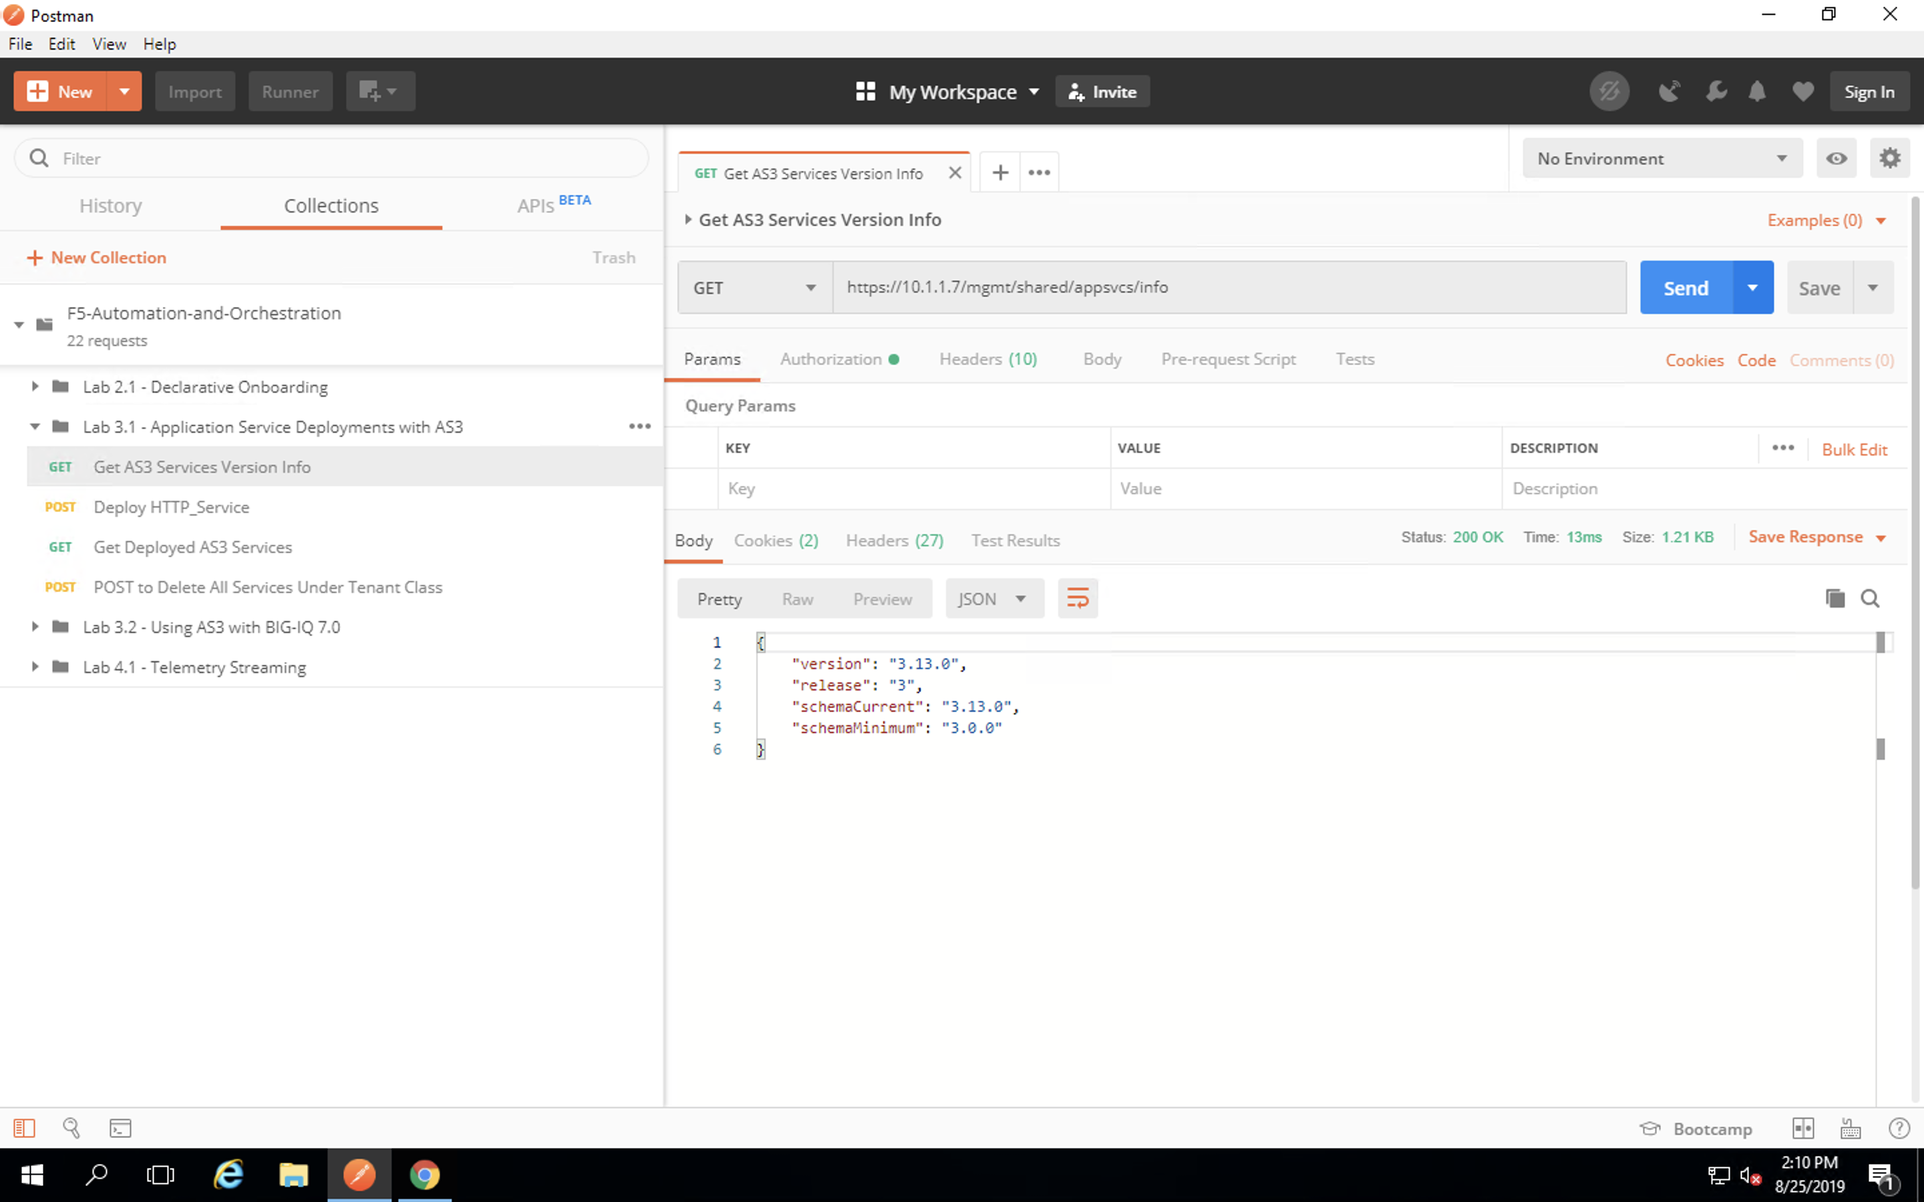
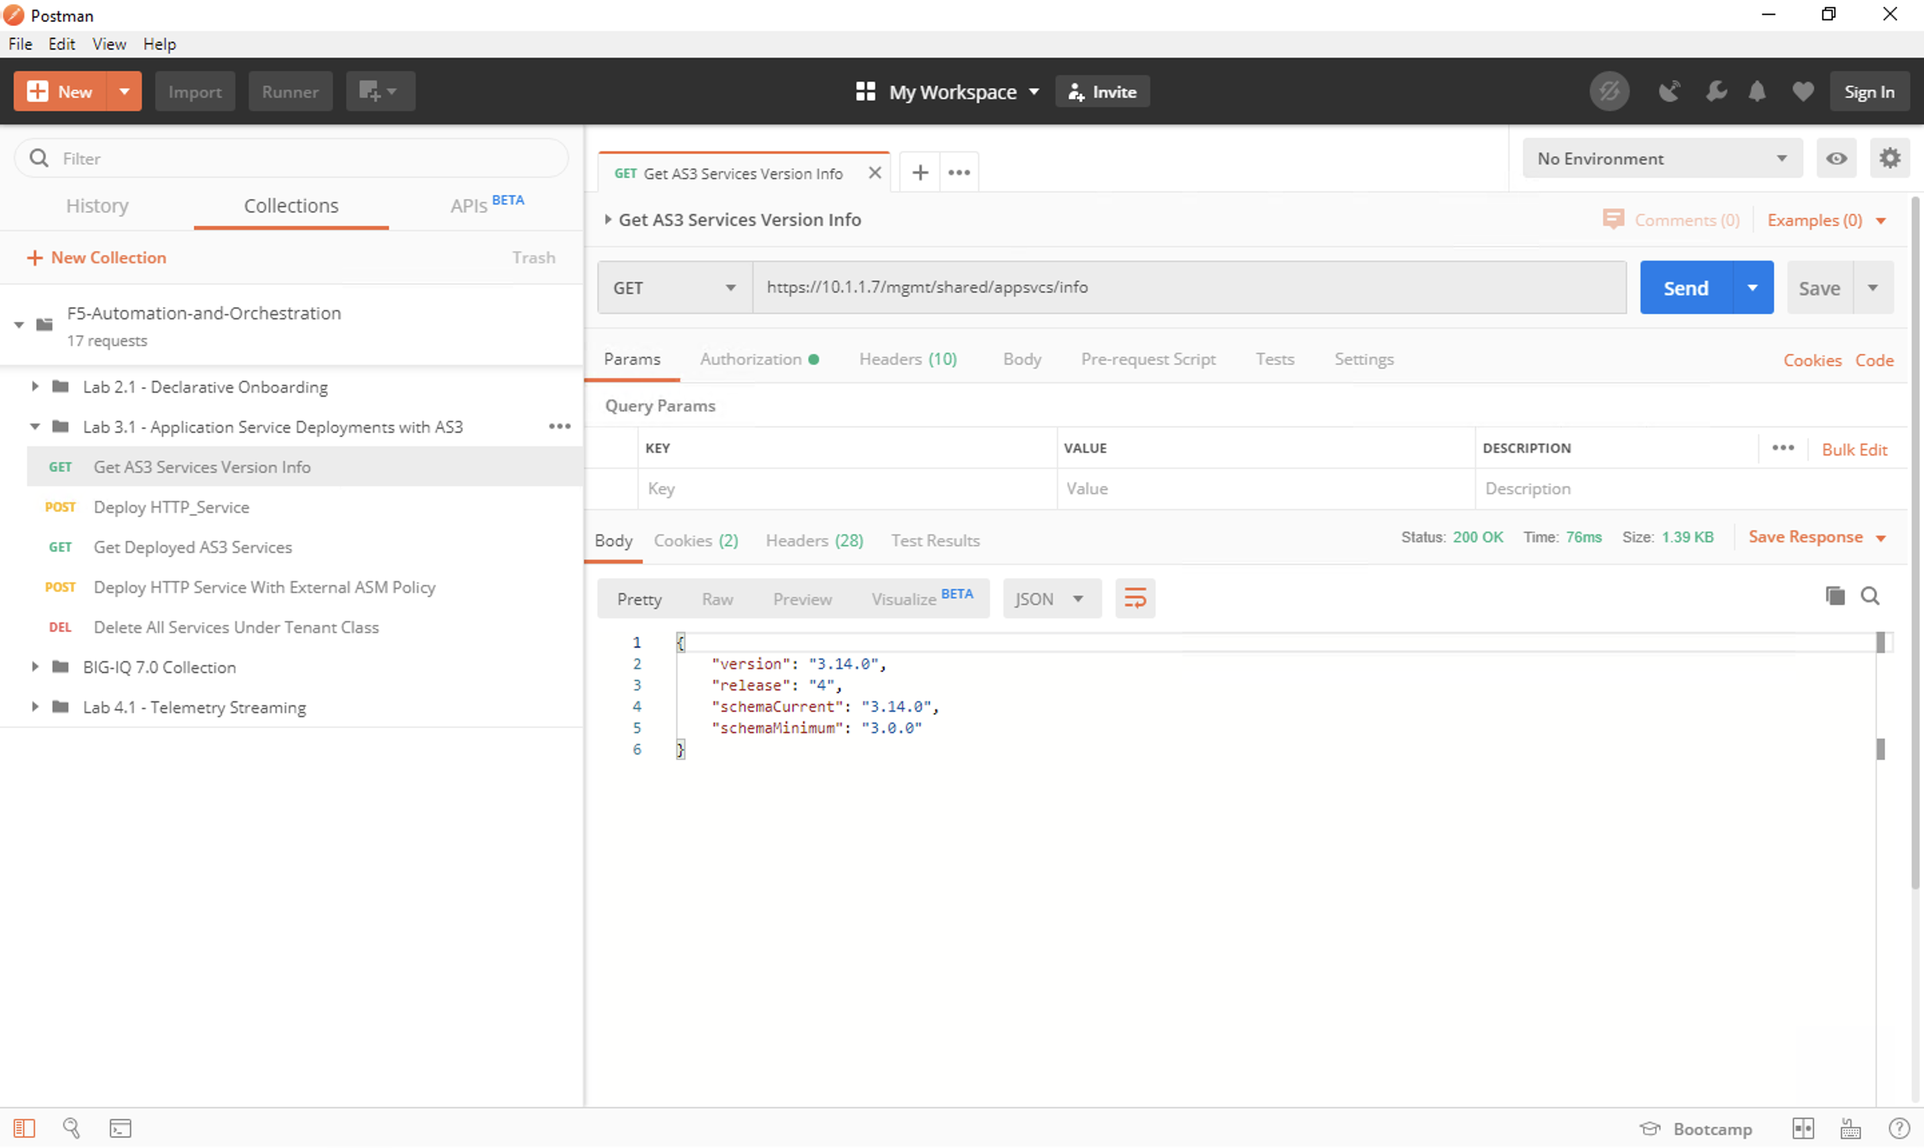
added asm

diff --git a/docs/_build/html/searchindex.js b/docs/_build/html/searchindex.js
@@ -1,1 +1,1 @@
-Search.setIndex({docnames:["class2/class2","class3/class3","class3/module/do","class4/class4","class4/module/lab1","class4/module/module","class4/module2/lab2","class4/module2/module2","class5/class5","class5/module/telemetry","index"],envversion:52,filenames:["class2/class2.rst","class3/class3.rst","class3/module/do.rst","class4/class4.rst","class4/module/lab1.rst","class4/module/module.rst","class4/module2/lab2.rst","class4/module2/module2.rst","class5/class5.rst","class5/module/telemetry.rst","index.rst"],objects:{},objnames:{},objtypes:{},terms:{"class":[2,4],"default":2,"import":[],"new":[7,9],"return":[4,9],"true":2,"while":8,AWS:[0,8,10],DNS:[0,1,2,3,4,5,6,7,8,9,10],For:[2,6,8],IPs:[2,6],The:[0,1,2,3,4,5,6,7,8,9,10],Then:4,Use:[],Using:[3,10],With:[],aaaaa:2,abl:[],about:4,abov:6,access:[0,1,2,3,4,5,6,7,8,9,10],account:8,action:9,activ:6,add:9,address:[0,2,9],admin123:[0,6],admin:[0,2,4,6,9],administr:[0,9],adminstr:[2,4],advanc:[0,1,2,3,4,5,6,7,8,9,10],agnost:3,all:[0,2,4,9],allowservic:2,along:9,alreadi:[2,4],also:[4,9],amount:8,ani:9,anoth:3,api:[0,1,2,3,4,5,6,7,8,9,10],apirefer:6,app:[0,1,3,5,7,8,9,10],app_made_by_as3_templ:[],applic:[0,1,2,4,5,7,8,9,10],applicationi:[],applicaton:[],approv:0,as3:[0,4,10],aspect:10,assum:[1,3,8],assumpt:[1,3,8],async:2,attach:9,auth:6,authent:6,authn:6,autom:[0,1,2,3,4,5,6,7,8,9,10],averag:8,aws:8,back:[2,6,9],bar:[2,4,6,9],bbbbb:2,been:[0,4,9],begin:9,below:[6,9],big:[0,1,3,5,8,10],bigiq_public_api_ref:6,blue:[6,9],blueprint:[2,4,9],bodi:6,bookmark:[6,9],bottom:[2,4,9],box:6,browser:[0,1,4,8,9],bug:[0,1,2,3,4,5,6,7,8,9,10],busi:8,button:[2,4,6,9],call:0,can:[0,1,2,3,4,5,6,7,8,9,10],ccccc:2,certif:[2,4,9],chang:[],check:[4,6],chrome:[0,2,4,6,9],claim:6,class7:[1,3,8],click:[1,2,4,6,8,9],client:9,close:[6,9],cloud:8,clouddoc:[1,2,3,6,8],cloudwatch:[8,10],code:2,collect:[2,4,6,8,9],com:[0,1,2,3,4,5,6,7,8,9,10],combin:9,common:[2,4,9],commun:[1,3,8],complet:[1,2,3,8],complianc:9,compon:[0,2,4,9],comput:2,configu:2,configur:[1,3,5,8,10],connect:8,consol:9,consum:8,contain:[0,1,2,3,4,5,6,7,8,9,10],content:[0,1,2,3,4,5,6,7,8,9,10],control:[0,1,2,3,4,5,6,7,8,9,10],copi:9,correspond:[],could:8,creat:[7,9],credenti:[0,2,4,9],current:[4,9],custom:6,dai:[8,9],dashboard:9,data:8,dcd:0,ddddd:2,declar:[0,5,6,8,10],delet:4,deliveri:[0,1,2,3,4,5,6,7,8,9,10],demo:[1,2,3,4,8,9],deploi:[5,6,8,10],deploy:[2,4,9],desktop:6,detail:[2,4,9],dev:1,devic:2,devop:[0,1,2,3,4,5,6,7,8,9,10],dismiss:9,document:8,don:2,done:2,download:9,dropdown:[2,4,8,9],durat:9,edit:[0,1,2,3,4,5,6,7,8,9,10],eeeeeee:2,email:1,empti:6,enabl:7,end:[2,4,6,9],enforc:[0,1,2,3,4,5,6,7,8,9,10],enhanc:[0,1,2,3,4,5,6,7,8,9,10],ensur:[2,4,6],enter:[2,4,6,8,9],entri:9,environ:10,error:[],everi:6,exclus:0,existing_pool:9,existing_v:9,exit:[2,4,9],expect:[1,3,8],expir:6,extend:8,extens:[2,10],extern:[0,2],external_default_gatewai:2,f5devcentr:[0,1,2,3,4,5,6,7,8,9,10],facilit:[1,3,8],fals:2,familiar:10,featur:[],feder:[1,8,9],few:[0,2],field:2,file:[2,4,9],find:[6,9],firewal:[0,1,2,3,4,5,6,7,8,9,10],fix:6,follow:[0,1,2,3,8],found:9,from:[0,1,2,3,4,5,6,7,8,9,10],full:[0,1,2,3,4,5,6,7,8,9,10],gener:[1,2,4,8,10],get:[1,3,4,8,9,10],github:[0,1,2,3,4,5,6,7,8,9,10],githubusercont:[],give:9,global:[0,1,2,3,4,5,6,7,8,9,10],goal:[1,3,8],going:[],goodbaklava123:[0,2],googl:0,govern:9,green:[2,4,9],grei:[2,4,9],group:[2,6,8,10],gui:[],guid:[1,3,8],handi:1,has:[2,4,6],have:[0,2,4,6,9],help:10,here:[0,1,2,3,4,5,6,7,8,9,10],highlight:9,host:8,hostnam:2,how:[1,3,5,7,8],html:[1,2,3,6,8],http:[0,1,2,3,4,5,6,7,8,9,10],http_servic:4,iam:[8,10],icontrol:[0,1,2,3,4,5,6,7,8,9,10],ident:9,inc:[0,1,2,3,4,5,6,7,8,9,10],includ:0,info:[2,4,9],inform:[4,8,9],insight:9,inspect:9,instal:[0,2],instanc:[4,9],integr:[1,3,8],intellig:[0,1,2,3,4,5,6,7,8,9,10],interact:0,interfac:2,intern:[0,2],invalid:6,isn:2,issu:[0,1,2,3,4,5,6,7,8,9,10],its:9,iworkflow:[0,1,2,3,4,5,6,7,8,9,10],jaustinf5:[],json:6,jumphost:0,jumppost:0,justif:8,keep:1,kei:[0,1,2,8,9],know:[1,3,4,8],lab1:[1,3,8],lab:[1,2,3,4,6,8,9],latest:2,learn:[5,7],left:[2,4,6,9],let:9,leverag:[0,1,2,3,4,5,6,7,8,9,10],licens:[1,2],licensetyp:2,link:[],linux:0,list:[2,9],load:[],local:[0,1,2,3,4,5,6,7,8,9,10],log:[2,8,10],login:[5,6,9],ltm:2,machin:0,made:[0,1,2,3,4,5,6,7,8,9,10],main:0,make:0,manag:[0,1,2,3,4,5,6,7,8,9,10],mani:8,manual:2,map:9,master:[],mean:6,menu:[2,4,6,9],method:8,mgmt:6,might:6,mine:[],minimum:[4,9],minut:[1,2,3,6,8],modul:[5,7,9],module1:[1,3,8],most:4,move:7,mtu:2,my_log_group:9,my_us:9,mydn:2,mylicens:2,myntp:2,myprovis:2,name:[2,6,9],nameserv:2,navig:[1,2,4,6,8,9],network:[0,1,2,3,4,5,6,7,8,9,10],newli:6,next:[1,6,9],nomin:2,none:2,note:9,notic:6,now:[2,4,6,8,9],ntp:2,off:[2,4,9],onboard:[0,10],onc:[0,2,9],one:[2,3,4,9],onli:2,onto:2,open:[0,1,2,3,4,5,6,7,8,9,10],orchestr:[0,1,2,3,4,5,6,7,8,9,10],org:2,other:4,our:4,out:0,outsid:0,overwrit:2,page:[2,4,9],partit:[4,9],password:[6,9],past:9,patch:2,perform:0,permiss:9,pipelin:[0,1,2,3,4,5,6,7,8,9,10],platform:8,point:0,polici:[0,1,2,3,4,5,6,7,8,9,10],pool:[0,2,9],pop:[2,4,6,9],port:9,post:[2,4,9],postman:[0,1,3,5,6,8,10],postman_collect:[],pre:[],preconfigur:9,prefer:0,prerequisit:[1,8],present:[2,4,9],previous:9,process:2,produc:9,product:[2,6],programmat:9,properti:[],provid:10,provis:2,publish:6,purpos:10,queri:9,quickli:10,r_as3_templ:6,raw:[],rbac:7,rdp:[2,4,9],receiv:6,recent:4,regist:6,regkei:2,releas:[4,9],relev:8,reload:9,repositori:[0,1,2,3,4,5,6,7,8,9,10],request:[0,1,2,3,4,5,6,7,8,9,10],requir:[0,4,9],resend:6,respons:[2,4,6],rest:[0,1,2,3,4,5,6,7,8,9,10],result:9,retriev:9,review:9,revok:2,right:[6,9],role:6,rout:2,rpm:2,run:9,save:6,schema:[4,9],schemavers:2,screen:[2,4,9],search:[2,4,8,9],secret:[8,9],section:[1,3,6,8,9],secur:[0,1,2,3,4,5,6,7,8,9,10],see:[2,6,9],seen:6,select:[2,4,6,8,9],self:2,selfip:2,send:[1,5,6,8,10],sent:9,server:[0,2,9],servic:[4,7,8,9,10],service_http:[],session:9,set:[1,2,4,9],setup:[0,8,10],share:6,should:[2,4],show:[4,9],sign:[2,4,9],similar:[],simplifi:3,skip:[2,4,9],soap:[0,1,2,3,4,5,6,7,8,9,10],some:10,sourc:[0,1,2,3,4,5,6,7,8,9,10],ssl:[2,4,9],start:[1,3,4,8,10],statu:2,sticki:9,store:[],straight:[2,4,9],stream:[0,9,10],submit:8,sure:[],system:[0,2,4,9],tab:[2,4,6,9],tag:[2,9],take:[2,4,8,9],target:6,technolog:8,telemetri:[0,9,10],templat:7,tenant:[2,4],test:0,test_log_group:[],test_log_stream:9,text:[2,4,9],than:4,them:9,thi:[0,1,2,3,4,5,6,7,8,9,10],thing:[0,2],through:0,ticket:8,tile:[1,2,4,6,8,9],time:[1,3,8,9],timezon:2,titl:6,toggl:[2,4,9],token:6,tool:1,toolchain:[2,4,9,10],top:[6,9],topolog:10,traffic:[0,1,2,3,4,5,6,7,8,10],trafficgroup:2,train:[1,3,8],turn:[],tutori:[1,3,8],type:9,udf:[5,8,10],under:[2,4,6,9],unknown:6,until:[2,4,9],upgrad:3,upload:7,uri:6,use:[1,2,3,5,7,8],user:[6,8,10],usernam:[6,9],uses:8,using:[0,1,2,3,4,5,6,7,8,9,10],utc:2,util:2,v13:0,v14:0,valid:2,valu:[],verif:[2,4,9],verifi:4,verificatt:[],version:[2,3,4,9],via:7,view:[7,8,10],vip:[],virtual:[0,1,2,3,4,5,6,7,8,9,10],vlan:[0,2],waf:[1,3,8],wai:0,wait:[2,4,9],want:8,welcom:10,west:2,when:[1,2,6],which:0,win2016:[2,4,9],window:[0,6,9],within:[0,1,2,3,4,5,6,7,8,9,10],without:7,work:0,ylwbzexewl9at:[0,2,4],you:[0,1,2,3,4,5,6,7,8,9,10],your:[0,1,6,8,9]},titles:["1. Environments &amp; Lab Topology","2. Declarative Onboarding","2.1. Declarative Onboarding \u2013 Getting Started","3. Application Services 3 Extension (AS3)","3.1.1. Deploy UDF","3.1. AS3 \u2013 Getting Started","3.2.1. Using AS3 with BIG-IQ 7.0","3.2. Using AS3 with Big-IQ","4. Telemetry Streaming","4.1. Setup AWS CloudWatch IAM User","F5 Agility Labs - Index"],titleterms:{"import":[],"new":6,AWS:9,Using:[6,7],agil:10,app:[2,4,6],applic:[3,6],as3:[3,5,6,7],big:[2,4,6,7,9],chang:2,cloudwatch:9,collect:[],configur:[2,4,9],creat:6,declar:[1,2,4,9],deploi:[2,4,9],enabl:6,environ:0,extens:3,from:[],gener:9,get:[2,5],github:[],group:9,iam:9,index:10,lab:[0,10],log:9,login:[2,4],move:6,onboard:[1,2],postman:[2,4,9],rbac:6,send:[2,4,9],servic:[3,6],setup:9,start:[2,5,9],stream:8,telemetri:8,templat:6,topolog:0,traffic:9,udf:[2,4,9],upload:6,user:9,verifi:2,via:6,view:[6,9],without:6}})
+Search.setIndex({docnames:["class2/class2","class3/class3","class3/module/do","class4/class4","class4/module/lab1","class4/module/module","class4/module2/lab2","class4/module2/module2","class5/class5","class5/module/telemetry","index"],envversion:52,filenames:["class2/class2.rst","class3/class3.rst","class3/module/do.rst","class4/class4.rst","class4/module/lab1.rst","class4/module/module.rst","class4/module2/lab2.rst","class4/module2/module2.rst","class5/class5.rst","class5/module/telemetry.rst","index.rst"],objects:{},objnames:{},objtypes:{},terms:{"class":[2,4],"default":2,"import":[],"new":[7,9],"return":[4,9],"true":2,"while":8,AWS:[0,8,10],DNS:[0,1,2,3,4,5,6,7,8,9,10],For:[2,4,6,8],IPs:[2,6],The:[0,1,2,3,4,5,6,7,8,9,10],Then:4,Use:[],Using:[3,10],With:4,_static:[],aaaaa:2,abl:[],about:4,abov:6,access:[0,1,2,3,4,5,6,7,8,9,10],account:8,action:9,activ:6,add:9,address:[0,2,9],admin123:[0,6],admin:[0,2,4,6,9],administr:[0,9],adminstr:[2,4],advanc:[0,1,2,3,4,5,6,7,8,9,10],agnost:3,all:[0,2,4,9],allowservic:2,along:9,alreadi:[2,4],also:[4,9],amount:8,ani:9,anoth:3,api:[0,1,2,3,4,5,6,7,8,9,10],apirefer:6,app:[0,1,3,5,7,8,9,10],app_made_by_as3_templ:[],applic:[0,1,2,4,5,7,8,9,10],applicationi:[],applicaton:[],approv:0,appsvc:4,as3:[0,4,10],asm:4,asmlist:[],aspect:10,assum:[1,3,8],assumpt:[1,3,8],async:2,attach:9,auth:6,authent:6,authn:6,autom:[0,1,2,3,4,5,6,7,8,9,10],averag:8,aws:8,back:[2,4,6,9],bar:[2,4,6,9],bbbbb:2,been:[0,4,9],begin:9,below:[6,9],big:[0,1,3,5,8,10],bigiq_public_api_ref:6,blue:[6,9],blueprint:[2,4,9],bodi:6,bookmark:[6,9],bottom:[2,4,9],box:6,browser:[0,1,4,8,9],bug:[0,1,2,3,4,5,6,7,8,9,10],busi:8,button:[2,4,6,9],call:0,can:[0,1,2,3,4,5,6,7,8,9,10],ccccc:2,certif:[2,4,9],chang:[],check:[4,6],chrome:[0,2,4,6,9],claim:6,class7:[1,3,8],click:[1,2,4,6,8,9],client:9,close:[6,9],cloud:8,clouddoc:[1,2,3,4,6,8],cloudwatch:[8,10],code:2,collect:[2,4,6,8,9],com:[0,1,2,3,4,5,6,7,8,9,10],combin:9,common:[2,4,9],commun:[1,3,8],complet:[1,2,3,8],complianc:9,compon:[0,2,4,9],comput:2,configu:2,configur:[1,3,5,8,10],connect:8,consol:9,consum:8,contain:[0,1,2,3,4,5,6,7,8,9,10],content:[0,1,2,3,4,5,6,7,8,9,10],control:[0,1,2,3,4,5,6,7,8,9,10],copi:9,correct:4,correspond:[],could:8,creat:[7,9],credenti:[0,2,4,9],current:[4,9],custom:6,dai:[8,9],dashboard:9,data:8,dcd:0,ddddd:2,declar:[0,5,6,8,10],delet:4,deliveri:[0,1,2,3,4,5,6,7,8,9,10],demo:[1,2,3,4,8,9],deploi:[5,6,8,10],deploy:[2,4,9],desktop:6,detail:[2,4,9],dev:1,devic:2,devop:[0,1,2,3,4,5,6,7,8,9,10],dismiss:9,document:8,don:2,done:2,download:9,dropdown:[2,4,8,9],durat:9,edit:[0,1,2,3,4,5,6,7,8,9,10],eeeeeee:2,email:1,empti:6,enabl:[4,7],end:[2,4,6,9],enforc:[0,1,2,3,4,5,6,7,8,9,10],enhanc:[0,1,2,3,4,5,6,7,8,9,10],ensur:[2,4,6],enter:[2,4,6,8,9],entri:9,environ:10,error:[],everi:6,exclus:0,existing_pool:9,existing_v:9,exit:[2,4,9],expect:[1,3,8],expir:6,extend:8,extens:[2,4,10],extern:[0,2,4],external_default_gatewai:2,f5devcentr:[0,1,2,3,4,5,6,7,8,9,10],facilit:[1,3,8],fals:2,familiar:10,featur:[],feder:[1,8,9],few:[0,2],field:2,file:[2,4,9],find:[6,9],firewal:[0,1,2,3,4,5,6,7,8,9,10],fix:6,follow:[0,1,2,3,8],found:9,from:[0,1,2,3,4,5,6,7,8,9,10],full:[0,1,2,3,4,5,6,7,8,9,10],gener:[1,2,4,8,10],get:[1,3,4,8,9,10],github:[0,1,2,3,4,5,6,7,8,9,10],githubusercont:[],give:9,global:[0,1,2,3,4,5,6,7,8,9,10],goal:[1,3,8],going:4,goodbaklava123:[0,2],googl:0,govern:9,green:[2,4,9],grei:[2,4,9],group:[2,6,8,10],gui:[],guid:[1,3,8],handi:1,has:[2,4,6],have:[0,2,4,6,9],help:10,here:[0,1,2,3,4,5,6,7,8,9,10],highlight:9,host:8,hostnam:2,how:[1,3,5,7,8],html:[1,2,3,4,6,8],http:[0,1,2,3,4,5,6,7,8,9,10],http_servic:4,iam:[8,10],icontrol:[0,1,2,3,4,5,6,7,8,9,10],ident:9,imag:[],inc:[0,1,2,3,4,5,6,7,8,9,10],includ:0,info:[2,4,9],inform:[4,8,9],insight:9,inspect:9,instal:[0,2],instanc:[4,9],integr:[1,3,8],intellig:[0,1,2,3,4,5,6,7,8,9,10],interact:0,interfac:2,intern:[0,2],invalid:6,isn:2,issu:[0,1,2,3,4,5,6,7,8,9,10],its:9,iworkflow:[0,1,2,3,4,5,6,7,8,9,10],jaustinf5:[],json:6,jumphost:0,jumppost:0,justif:8,keep:1,kei:[0,1,2,8,9],know:[1,3,4,8],lab1:[1,3,8],lab:[1,2,3,4,6,8,9],lastli:4,latest:[2,4],learn:[5,7],left:[2,4,6,9],let:9,leverag:[0,1,2,3,4,5,6,7,8,9,10],licens:[1,2],licensetyp:2,link:[],linux:0,list:[2,9],load:[],local:[0,1,2,3,4,5,6,7,8,9,10],log:[2,8,10],login:[5,6,9],ltm:2,machin:0,made:[0,1,2,3,4,5,6,7,8,9,10],main:0,make:0,manag:[0,1,2,3,4,5,6,7,8,9,10],mani:8,manual:2,map:9,master:[],mean:6,menu:[2,4,6,9],method:[4,8],mgmt:6,might:6,mine:[],minimum:[4,9],minut:[1,2,3,6,8],modul:[5,7,9],module1:[1,3,8],more:4,most:4,move:7,mtu:2,my_log_group:9,my_us:9,mydn:2,mylicens:2,myntp:2,myprovis:2,name:[2,6,9],nameserv:2,navig:[1,2,4,6,8,9],network:[0,1,2,3,4,5,6,7,8,9,10],newli:6,next:[1,6,9],nomin:2,none:2,note:9,notic:6,now:[2,4,6,8,9],ntp:2,off:[2,4,9],onboard:[0,10],onc:[0,2,9],one:[2,3,4,9],onli:2,onto:2,open:[0,1,2,3,4,5,6,7,8,9,10],orchestr:[0,1,2,3,4,5,6,7,8,9,10],org:2,other:4,our:4,out:0,outsid:0,overwrit:2,page:[2,4,9],partit:[4,9],password:[6,9],past:9,patch:2,perform:0,permiss:9,pipelin:[0,1,2,3,4,5,6,7,8,9,10],platform:8,png:[],point:0,polici:[0,1,2,3,4,5,6,7,8,9,10],pool:[0,2,9],pop:[2,4,6,9],port:9,post:[2,9],postman:[0,1,3,5,6,8,10],postman_collect:[],pre:[],preconfigur:9,prefer:0,prerequisit:[1,8],present:[2,4,9],previous:9,process:2,produc:9,product:[2,4,6],programmat:9,properti:[],provid:10,provis:2,publish:6,purpos:10,queri:9,quickli:10,r_as3_templ:6,raw:[],rbac:7,rdp:[2,4,9],receiv:6,recent:4,refguid:4,regist:6,regkei:2,releas:[4,9],relev:8,reload:9,repositori:[0,1,2,3,4,5,6,7,8,9,10],request:[0,1,2,3,4,5,6,7,8,9,10],requir:[0,4,9],resend:6,respons:[2,4,6],rest:[0,1,2,3,4,5,6,7,8,9,10],result:9,retriev:9,review:9,revok:2,right:[6,9],role:6,rout:2,rpm:2,run:9,save:6,schema:[4,9],schemavers:2,screen:[2,4,9],search:[2,4,8,9],secret:[8,9],section:[1,3,6,8,9],secur:[0,1,2,3,4,5,6,7,8,9,10],see:[2,6,9],seen:6,select:[2,4,6,8,9],self:2,selfip:2,send:[1,5,6,8,10],sent:9,server:[0,2,9],servic:[4,7,8,9,10],service_http:[],session:9,set:[1,2,4,9],setup:[0,8,10],share:6,should:[2,4],show:[4,9],sign:[2,4,9],similar:[],simplifi:3,skip:[2,4,9],soap:[0,1,2,3,4,5,6,7,8,9,10],some:10,sourc:[0,1,2,3,4,5,6,7,8,9,10],ssl:[2,4,9],start:[1,3,4,8,10],statu:2,sticki:9,store:[],straight:[2,4,9],stream:[0,9,10],submit:8,sure:[],system:[0,2,4,9],tab:[2,4,6,9],tag:[2,9],take:[2,4,8,9],target:6,technolog:8,telemetri:[0,9,10],templat:7,tenant:[2,4],test:0,test_log_group:[],test_log_stream:9,text:[2,4,9],than:4,them:9,thi:[0,1,2,3,4,5,6,7,8,9,10],thing:[0,2],through:0,ticket:8,tile:[1,2,4,6,8,9],time:[1,3,8,9],timezon:2,titl:6,toggl:[2,4,9],token:6,tool:1,toolchain:[2,4,9,10],top:[6,9],topolog:10,traffic:[0,1,2,3,4,5,6,7,8,10],trafficgroup:2,train:[1,3,8],turn:[],tutori:[1,3,8],type:9,udf:[5,8,10],under:[2,4,6,9],unknown:6,until:[2,4,9],upgrad:3,upload:7,uri:6,use:[1,2,3,5,7,8],user:[6,8,10],usernam:[6,9],uses:8,using:[0,1,2,3,4,5,6,7,8,9,10],utc:2,util:2,v13:0,v14:0,valid:2,valu:[],verif:[2,4,9],verifi:4,verificatt:[],version:[2,3,4,9],via:7,view:[7,8,10],vip:[],virtual:[0,1,2,3,4,5,6,7,8,9,10],vlan:[0,2],waf:[1,3,8],wai:0,wait:[2,4,9],want:8,welcom:10,west:2,when:[1,2,6],which:0,win2016:[2,4,9],window:[0,6,9],within:[0,1,2,3,4,5,6,7,8,9,10],without:7,work:0,ylwbzexewl9at:[0,2,4],you:[0,1,2,3,4,5,6,7,8,9,10],your:[0,1,6,8,9]},titles:["1. Environments &amp; Lab Topology","2. Declarative Onboarding","2.1. Declarative Onboarding \u2013 Getting Started","3. Application Services 3 Extension (AS3)","3.1.1. Deploy UDF","3.1. AS3 \u2013 Getting Started","3.2.1. Using AS3 with BIG-IQ 7.0","3.2. Using AS3 with Big-IQ","4. Telemetry Streaming","4.1. Setup AWS CloudWatch IAM User","F5 Agility Labs - Index"],titleterms:{"import":[],"new":6,AWS:9,Using:[6,7],agil:10,app:[2,4,6],applic:[3,6],as3:[3,5,6,7],big:[2,4,6,7,9],chang:2,cloudwatch:9,collect:[],configur:[2,4,9],creat:6,declar:[1,2,4,9],deploi:[2,4,9],enabl:6,environ:0,extens:3,from:[],gener:9,get:[2,5],github:[],group:9,iam:9,index:10,lab:[0,10],log:9,login:[2,4],move:6,onboard:[1,2],postman:[2,4,9],rbac:6,send:[2,4,9],servic:[3,6],setup:9,start:[2,5,9],stream:8,telemetri:8,templat:6,topolog:0,traffic:9,udf:[2,4,9],upload:6,user:9,verifi:2,via:6,view:[6,9],without:6}})

diff --git a/docs/_build/html/class4/module/lab1.html b/docs/_build/html/class4/module/lab1.html
@@ -187,10 +187,26 @@
 </ol>
 <img alt="../../_images/3_1-3.png" src="../../_images/3_1-3.png" />
 <ol class="arabic simple" start="7">
-<li>Now we will delete all services from this partition. Click the request “POST to Delete All Services Under Tenant Class”. Then click the send button. You should get a 200 OK from Postman.</li>
+<li>Now we will deploy a service with an ASM policy. Click the request “Deploy HTTP Service With External ASM policy”. Then click the send button. Ensure that the response is 200.</li>
+</ol>
+<img alt="../../_images/3_1-5.png" src="../../_images/3_1-5.png" />
+<ol class="arabic simple" start="8">
+<li>Ensure the policy is enabled by going back into the BIG-IP under Security then clicking on Application Security and lastly on Security Policies.</li>
+</ol>
+<img alt="../../_images/asmlist.png" src="../../_images/asmlist.png" />
+<ol class="arabic simple" start="9">
+<li>Also ensure you are in the correct partition.</li>
+</ol>
+<img alt="../../_images/asm.png" src="../../_images/asm.png" />
+<ol class="arabic simple" start="10">
+<li>Now we will delete all services from this partition. Click the request “Delete All Services Under Tenant Class”. Then click the send button. You should get a 200 OK from Postman.</li>
 </ol>
 <img alt="../../_images/3_1-4.png" src="../../_images/3_1-4.png" />
-<ol class="arabic simple" start="8">
+<div class="admonition note">
+<p class="first admonition-title">Note</p>
+<p class="last">For more information on deleting tenants <a class="reference external" href="https://clouddocs.f5.com/products/extensions/f5-appsvcs-extension/latest/refguide/as3-api.html#method-delete">https://clouddocs.f5.com/products/extensions/f5-appsvcs-extension/latest/refguide/as3-api.html#method-delete</a></p>
+</div>
+<ol class="arabic simple" start="11">
 <li>Open Browser and check that BIG-IP has no other services than from Common partition.</li>
 </ol>
 <img alt="../../_images/noas3.png" src="../../_images/noas3.png" />

diff --git a/docs/_build/html/class2/class2.html b/docs/_build/html/class2/class2.html
@@ -120,7 +120,7 @@
 The following components have been included in your lab environment:</p>
 <ul class="simple">
 <li>3 x F5 BIG-IP VE (1 for v13.x, 2 for v14.x)</li>
-<li>2 x F5 BIG-IQ VE (6.x)</li>
+<li>2 x F5 BIG-IQ VE (7.x, 6.x)</li>
 <li>1 x Linux Server</li>
 <li>1 x Windows Jumphost</li>
 </ul>

diff --git a/docs/class4/module/lab1.rst b/docs/class4/module/lab1.rst
@@ -80,11 +80,25 @@ Send Declarations
 
 .. image:: /_static/3_1-3.png
 
-7. Now we will delete all services from this partition. Click the request "POST to Delete All Services Under Tenant Class". Then click the send button. You should get a 200 OK from Postman.
+7. Now we will deploy a service with an ASM policy. Click the request "Deploy HTTP Service With External ASM policy". Then click the send button. Ensure that the response is 200.
+
+.. image:: /_static/3_1-5.png
+
+8. Ensure the policy is enabled by going back into the BIG-IP under Security then clicking on Application Security and lastly on Security Policies.
+
+.. image:: /_static/asmlist.png
+
+9. Also ensure you are in the correct partition.
+
+.. image:: /_static/asm.png
+
+10. Now we will delete all services from this partition. Click the request "Delete All Services Under Tenant Class". Then click the send button. You should get a 200 OK from Postman.
 
 .. image:: /_static/3_1-4.png
 
-8. Open Browser and check that BIG-IP has no other services than from Common partition. 
+.. NOTE :: For more information on deleting tenants https://clouddocs.f5.com/products/extensions/f5-appsvcs-extension/latest/refguide/as3-api.html#method-delete 
+
+11. Open Browser and check that BIG-IP has no other services than from Common partition. 
 
 .. image:: /_static/noas3.png
 

diff --git a/docs/class2/class2.rst b/docs/class2/class2.rst
@@ -9,7 +9,7 @@ Environments & Lab Topology
 The following components have been included in your lab environment:
 
 - 3 x F5 BIG-IP VE (1 for v13.x, 2 for v14.x)
-- 2 x F5 BIG-IQ VE (6.x)
+- 2 x F5 BIG-IQ VE (7.x, 6.x)
 - 1 x Linux Server
 - 1 x Windows Jumphost
 
